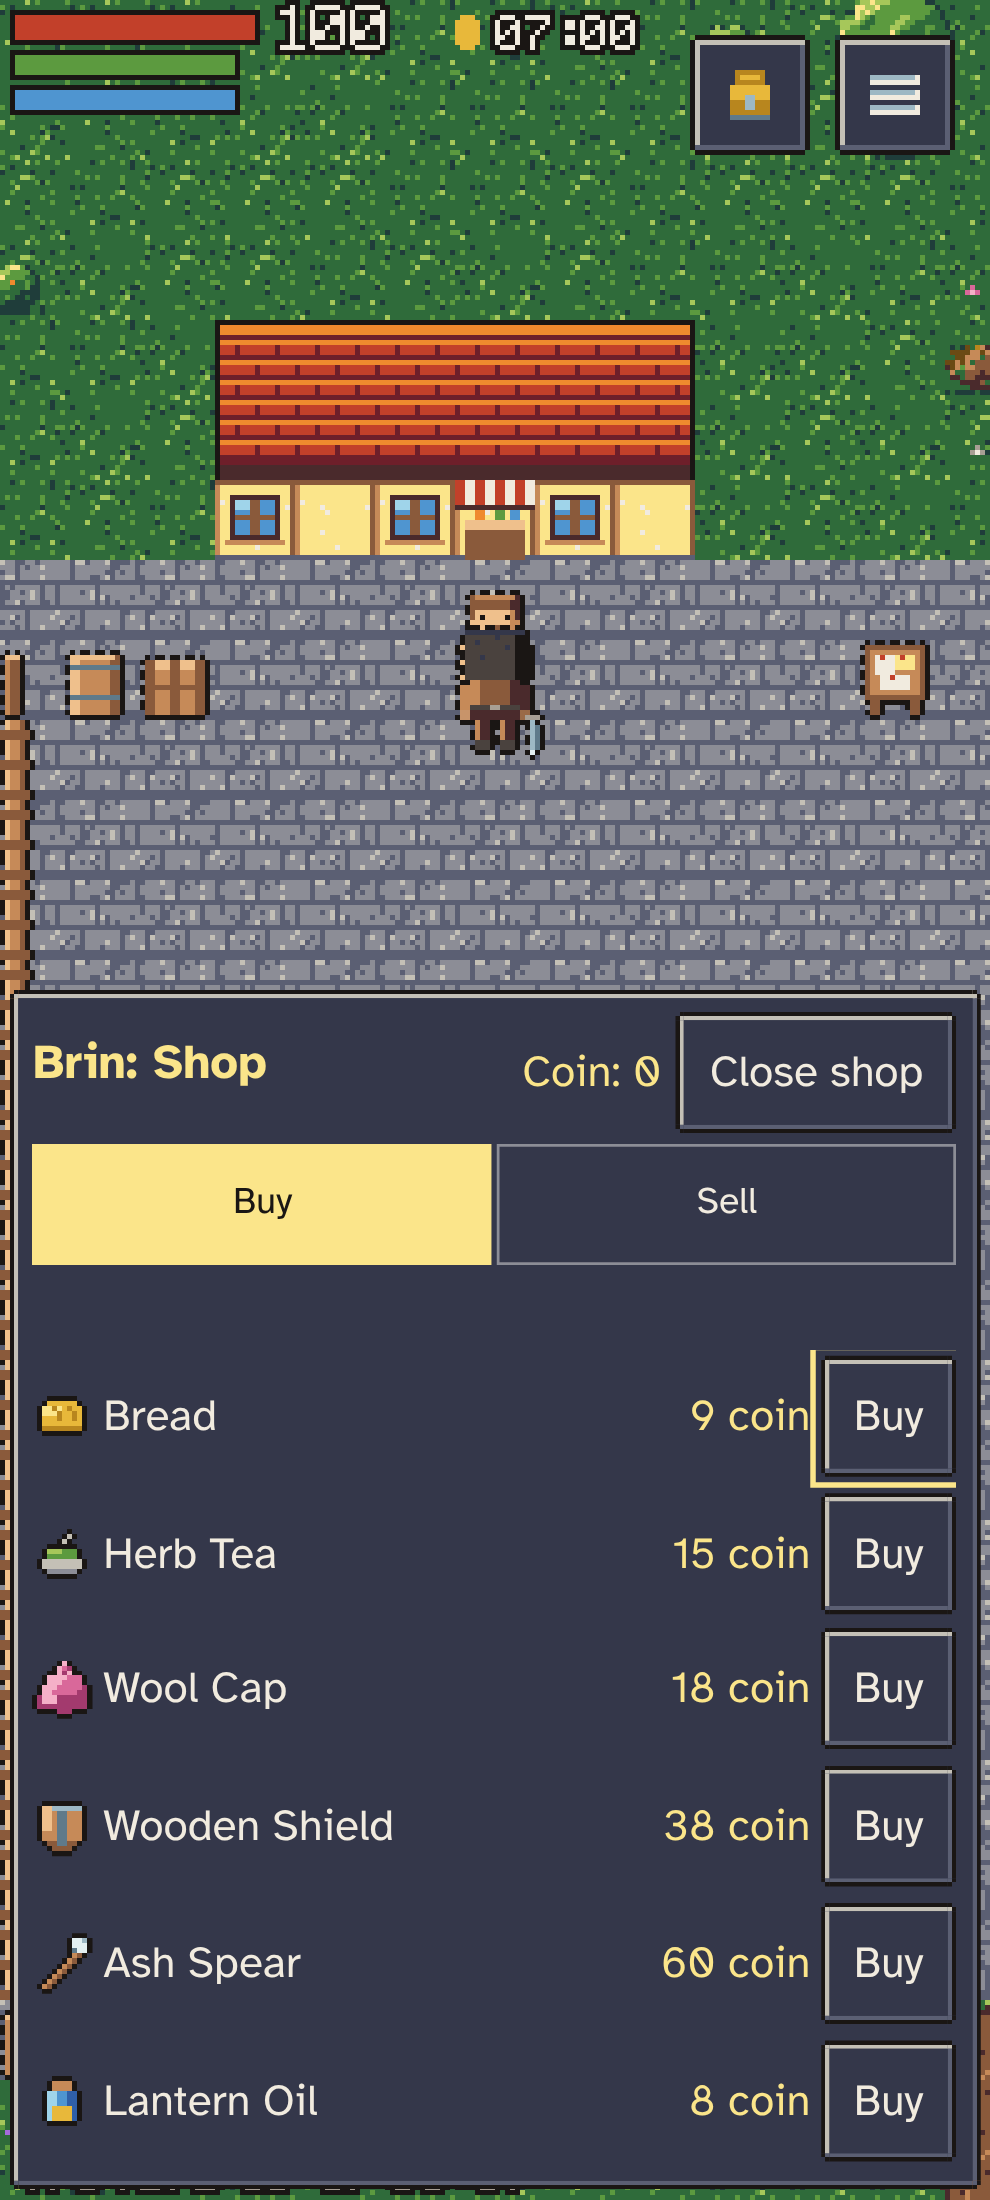
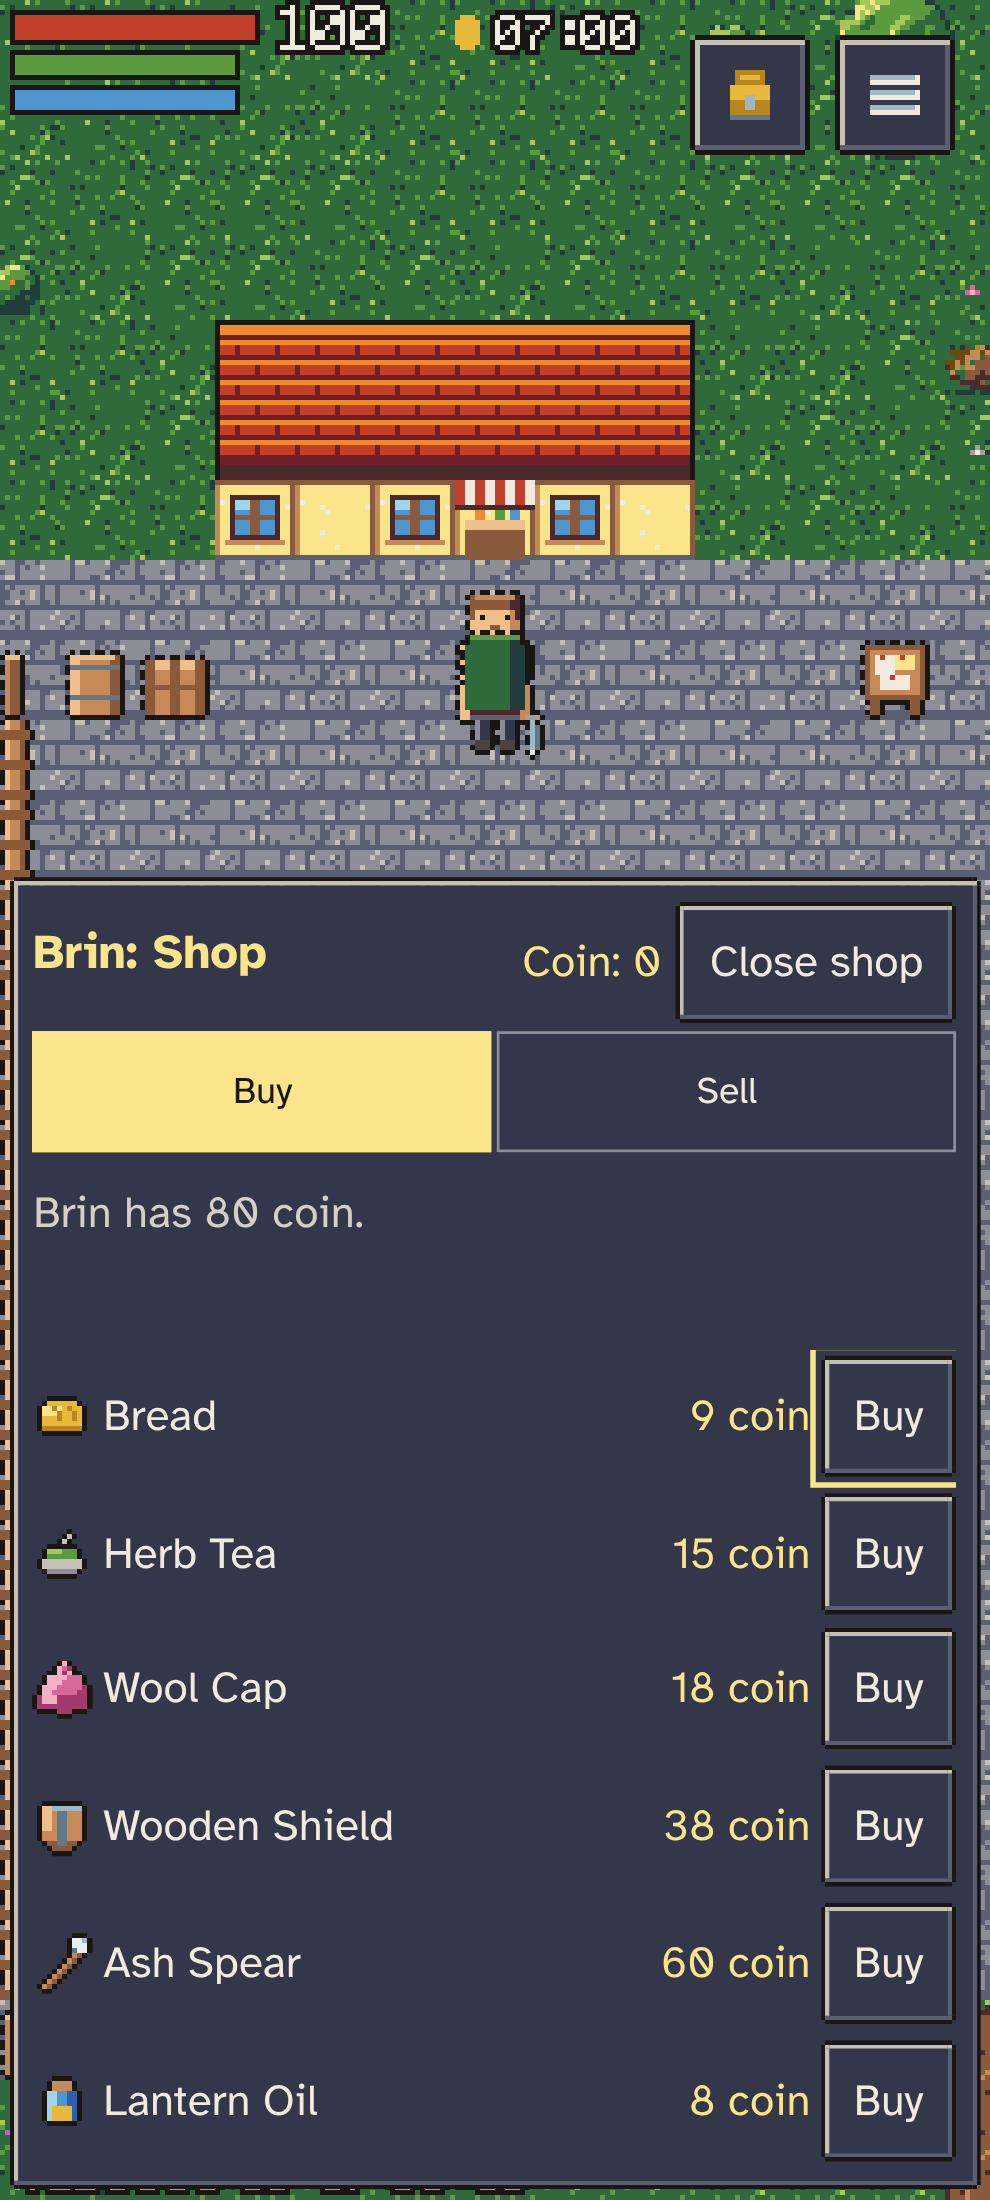
Playtest fixes: cave door, respawn camera, no flick dodge, shopkeeper coin limit
The cave entrance door is now on the south wall of the first room, so walking in and then north no longer loops back outside. The camera follows the avatar's room every frame, so a respawn at a Waystone in another room shows the avatar. A fast swipe no longer dodges (the dodge button and Space remain). Shopkeepers hold a limited purse: sales stop when it runs out, buying refills it, and it recovers slowly toward its starting amount.

Claude-Session: https://claude.ai/code/session_01C2rw6xfGCmDCEVmwDgozvR

diff --git a/src/sim/systems/npcs.ts b/src/sim/systems/npcs.ts
@@ -8,7 +8,7 @@ import { destroy, getComp, query, setComp, spawn, type EntityId } from '../kerne
 import { emit } from '../kernel/events';
 import { px, SUBPX } from '../kernel/fixed';
 import { offerTrial } from '../skills';
-import type { SimState } from '../state';
+import type { Npc, SimState } from '../state';
 import { contextTarget } from './interact';
 
 const TILE = 16;
@@ -17,10 +17,27 @@ const TILE = 16;
 export function spawnNpc(state: SimState, id: string, tx: number, ty: number): EntityId {
   const e = spawn(state.entities);
   setComp(state.entities, e, 'pos', { x: px(tx * TILE + 8), y: px(ty * TILE + 14) });
-  setComp(state.entities, e, 'npc', { id });
+  const shop = Object.values(SHOPS).find((x) => x.npc === id);
+  setComp(state.entities, e, 'npc', { id, purse: shop?.purse.start ?? 0 });
   setComp(state.entities, e, 'body', { w: px(12), h: px(8), solid: true });
   setComp(state.entities, e, 'interactable', { kind: id });
   return e;
+}
+
+/** The npc component of the shopkeeper for a shop, if they are in the world. */
+function keeper(state: SimState, shopId: string): { npc: Npc; max: number } | null {
+  const shop = SHOPS[shopId];
+  if (!shop) return null;
+  for (const id of query(state.entities, 'npc')) {
+    const n = getComp(state.entities, id, 'npc');
+    if (n?.id === shop.npc) return { npc: n, max: shop.purse.max };
+  }
+  return null;
+}
+
+/** Coin the shopkeeper holds, or 0 if they are not here. */
+export function shopPurse(state: SimState, shopId: string): number {
+  return keeper(state, shopId)?.npc.purse ?? 0;
 }
 
 /** Price to buy one of an item. */
@@ -121,6 +138,8 @@ export function buy(
   if (!canHold(inv, c.item, c.qty))
     return void emit(state.events, { type: 'shopDenied', who, reason: 'bag' });
   a.coin -= cost;
+  const k = keeper(state, c.shop);
+  if (k) k.npc.purse = Math.min(k.max, k.npc.purse + cost);
   addItem(inv, c.item, c.qty);
   emit(state.events, { type: 'bought', who, item: c.item, qty: c.qty, coin: cost });
 }
@@ -142,14 +161,29 @@ export function sell(
   const each = sellPrice(stack.item);
   if (each <= 0 || stack.item === 'item.coin')
     return void emit(state.events, { type: 'shopDenied', who, reason: 'worthless' });
+  const k = keeper(state, c.shop);
+  if (!k || k.npc.purse < each * qty)
+    return void emit(state.events, { type: 'shopDenied', who, reason: 'purse' });
   const item = stack.item;
   if (!removeItem(inv, item, qty)) return;
+  k.npc.purse -= each * qty;
   a.coin += each * qty;
   emit(state.events, { type: 'sold', who, item, qty, coin: each * qty });
 }
 
+/** Shopkeepers who hold less than they started with earn a little back over time. */
+function restock(state: SimState): void {
+  if (state.tick === 0 || state.tick % B.purseRegenEvery !== 0) return;
+  for (const shop of Object.values(SHOPS)) {
+    const k = keeper(state, shop.id);
+    if (k && k.npc.purse < shop.purse.start)
+      k.npc.purse = Math.min(shop.purse.start, k.npc.purse + B.purseRegen);
+  }
+}
+
 /** Counts kills toward active requests and marks them ready. Runs after combat. */
 export function requestsSystem(state: SimState): void {
+  restock(state);
   for (const who of query(state.entities, 'avatar', 'journal')) {
     const j = getComp(state.entities, who, 'journal');
     if (!j) continue;

diff --git a/tests/sim/npcs.test.ts b/tests/sim/npcs.test.ts
@@ -7,7 +7,7 @@ import type { Command } from '../../src/sim/kernel/commands';
 import type { SimEvent } from '../../src/sim/kernel/events';
 import { createDemoState, type SimState } from '../../src/sim/state';
 import { stepWorld } from '../../src/sim/step';
-import { buyPrice, sellPrice, spawnNpc } from '../../src/sim/systems/npcs';
+import { buyPrice, sellPrice, shopPurse, spawnNpc } from '../../src/sim/systems/npcs';
 
 interface Rig {
   s: SimState;
@@ -179,6 +179,48 @@ describe('the shop', () => {
     r.tick(buy('item.dish_bread'));
     expect(denials(r)).toEqual(['stock', 'worthless', 'bag', 'range']);
     expect(a.coin).toBe(1000);
+  });
+
+  it('the shopkeeper only has so much coin: sales stop when it runs out, and buying refills it', () => {
+    const r = rig();
+    const inv = r.s.entities.comps.inventory[r.me]!;
+    const a = r.s.entities.comps.avatar[r.me]!;
+    const start = shopPurse(r.s, 'shop.brin');
+    expect(start).toBe(80);
+    // Iron swords sell for 30 each: two fit in an 80 coin purse, the third does not.
+    for (let i = 0; i < 3; i++) inv.slots[i] = { item: 'item.sword_iron', qty: 1 };
+    r.tick(sell(0));
+    r.tick(sell(1));
+    expect(a.coin).toBe(60);
+    expect(shopPurse(r.s, 'shop.brin')).toBe(20);
+    r.tick(sell(2));
+    expect(denials(r)).toEqual(['purse']);
+    expect(a.coin).toBe(60);
+    expect(inv.slots[2]).not.toBeNull();
+    // Buying puts the coin back in the till, up to its limit.
+    r.tick(buy('item.dish_bread', 3));
+    expect(shopPurse(r.s, 'shop.brin')).toBe(20 + buyPrice('item.dish_bread') * 3);
+    r.tick(sell(2));
+    expect(r.count('sold')).toBe(3);
+  });
+
+  it('a shopkeeper who is short earns back a little over time, never past the start', () => {
+    const r = rig();
+    const inv = r.s.entities.comps.inventory[r.me]!;
+    inv.slots[0] = { item: 'item.sword_iron', qty: 1 };
+    inv.slots[1] = { item: 'item.sword_iron', qty: 1 };
+    r.tick(sell(0));
+    r.tick(sell(1));
+    const low = shopPurse(r.s, 'shop.brin');
+    expect(low).toBe(20);
+    r.s.tick = 30 * 120 - 1;
+    r.tick();
+    expect(shopPurse(r.s, 'shop.brin')).toBe(low + 5);
+    for (let i = 0; i < 30; i++) {
+      r.s.tick = (i + 2) * 30 * 120 - 1;
+      r.tick();
+    }
+    expect(shopPurse(r.s, 'shop.brin')).toBe(80);
   });
 
   it('buying costs more than selling pays, so there is no free coin', () => {

diff --git a/tests/unit/input.test.ts b/tests/unit/input.test.ts
@@ -46,37 +46,34 @@ describe('touch stick', () => {
 });
 
 describe('flick, tap, hold', () => {
-  it('a fast short swipe is a flick with the right direction', () => {
-    const t = mk();
-    t.down(1, 100, 600, 0);
-    t.move(1, 100, 560);
-    t.up(1, 100, 560, 100);
-    const s = t.sample(110);
-    expect(s.dodge).toEqual({ dir: Dir.N });
-    expect(s.targetTap).toBeNull();
-  });
-
-  it('a slow drag of the same distance is not a flick', () => {
-    const t = mk();
-    t.down(1, 100, 600, 0);
-    t.move(1, 100, 560);
-    t.up(1, 100, 560, T.flickMaxMs + 200);
-    expect(t.sample(1000).dodge).toBeNull();
-  });
-
-  it('a flick is detected in all of four sample directions', () => {
-    const cases: [number, number, number][] = [
-      [40, 0, Dir.E],
-      [0, 40, Dir.S],
-      [-40, 0, Dir.W],
-      [30, -30, Dir.NE],
-    ];
-    for (const [dx, dy, dir] of cases) {
+  it('a fast short swipe is not a dodge, so reaching for things never dodges by accident', () => {
+    for (const [dx, dy] of [
+      [0, -40],
+      [40, 0],
+      [0, 40],
+      [-40, 0],
+      [30, -30],
+    ] as const) {
       const t = mk();
       t.down(1, 180, 600, 0);
       t.up(1, 180 + dx, 600 + dy, 90);
-      expect(t.sample(100).dodge).toEqual({ dir });
+      const s = t.sample(100);
+      expect(s.dodge).toBeNull();
+      expect(s.targetTap).toBeNull();
     }
+  });
+
+  it('with the flick dodge switched on, a fast short swipe dodges in its direction', () => {
+    const t = new TouchController(layout(), { ...T, flickDodge: true });
+    t.down(1, 100, 600, 0);
+    t.move(1, 100, 560);
+    t.up(1, 100, 560, 100);
+    expect(t.sample(110).dodge).toEqual({ dir: Dir.N });
+    const slow = new TouchController(layout(), { ...T, flickDodge: true });
+    slow.down(1, 100, 600, 0);
+    slow.move(1, 100, 560);
+    slow.up(1, 100, 560, T.flickMaxMs + 200);
+    expect(slow.sample(1000).dodge).toBeNull();
   });
 
   it('a short still touch on open ground is a target tap', () => {

diff --git a/src/ui/dom/talk.ts b/src/ui/dom/talk.ts
@@ -9,7 +9,7 @@ import { holds, startNode } from '../../sim/journal';
 import type { Command } from '../../sim/kernel/commands';
 import type { SimEvent } from '../../sim/kernel/events';
 import type { SimState } from '../../sim/state';
-import { buyPrice, sellPrice } from '../../sim/systems/npcs';
+import { buyPrice, sellPrice, shopPurse } from '../../sim/systems/npcs';
 
 export interface TalkDeps {
   read: () => { state: SimState; who: number };
@@ -178,7 +178,9 @@ export class TalkSheet {
       this.shopMsg = fill(S.shop.sold, { item: nameOf(e.item), n: String(e.coin) });
       this.renderShop();
     } else if (this.shopId && e.type === 'shopDenied') {
-      this.shopMsg = S.shop.denied[e.reason];
+      this.shopMsg = fill(S.shop.denied[e.reason], {
+        name: NPCS[SHOPS[this.shopId]?.npc ?? '']?.name ?? '',
+      });
       this.renderShop();
     }
   }
@@ -225,6 +227,14 @@ export class TalkSheet {
       });
       tabs.appendChild(b);
     }
+    const purse = el(
+      'p',
+      'pow-hint',
+      fill(S.shop.purse, {
+        name: NPCS[shop.npc]?.name ?? '',
+        n: String(shopPurse(state, shop.id)),
+      }),
+    );
     const msg = el('p', 'pow-shop-msg', this.shopMsg);
     msg.setAttribute('role', 'status');
 
@@ -272,7 +282,7 @@ export class TalkSheet {
       });
       if (!any) list.appendChild(el('li', 'pow-hint', S.shop.nothingToSell));
     }
-    put(s, head, tabs, msg, list);
+    put(s, head, tabs, purse, msg, list);
     (s.querySelector('.pow-shop-list button') as HTMLElement | null)?.focus();
     this.ready = true;
   }

diff --git a/src/demo/world.ts b/src/demo/world.ts
@@ -1,5 +1,5 @@
 // Temporary demo: the 3 x 3 chunk test map with the sim avatar and three practice creatures.
-// Walk, fight (Flow or Classic, button top right), dodge with a flick or Space, lock by tapping.
+// Walk, fight (Flow or Classic, button top right), dodge with the button or Space, lock by tapping.
 // Keys: WASD move, J attack (Classic), Space dodge, 1 and 2 techniques (hold to aim), T scheme.
 //   ?fly=1   no collision, fast, no creatures (for crossing all nine chunks)
 //   ?auto=1  fly a fixed loop through all nine chunks without input (for the frame-rate check)
@@ -616,6 +616,14 @@ export async function startWorldDemo(canvas: HTMLCanvasElement): Promise<void> {
       const fy = (prev.y + (apos.y - prev.y) * alpha) / 256;
       const pxX = Math.round(fx);
       const pxY = Math.round(fy);
+      // Rooms follow the avatar wherever it is, including a respawn at a Waystone in another room.
+      if (!fly) {
+        const here = roomAt(Math.floor(pxX / TILE_PX), Math.floor((pxY - 1) / TILE_PX));
+        if (here && here.id !== room.id) {
+          enterRoom(here);
+          fadeAt = now;
+        }
+      }
       camera.follow(pxX, pxY - 14, dt);
       const shake = feedback.shake(now);
       renderer.begin(camera.x + shake.x, camera.y + shake.y);

diff --git a/tests/sim/slice.test.ts b/tests/sim/slice.test.ts
@@ -298,6 +298,24 @@ describe('the cave run', () => {
     expect(b.tile().y).toBeGreaterThan(at('fixture.portal_cave_mouth').y);
   });
 
+  it('entering the cave puts you at its south door, and walking north stays inside', () => {
+    const b = world();
+    expect(b.walkTo(at('fixture.portal_cave_mouth'))).toBe(true);
+    expect(b.room()).toBe('room.a');
+    const entry = at('fixture.portal_a_entry');
+    // The door you came through is behind you, to the south.
+    expect(entry.y).toBeGreaterThan(b.tile().y);
+    for (let i = 0; i < 200; i++) b.tick({ type: 'move', dir: N });
+    expect(b.room()).toBe('room.a');
+    expect(b.count('roomChanged')).toBe(1);
+    // Walking back south reaches that door and leads outside, once.
+    expect(b.walkTo(entry)).toBe(true);
+    expect(b.room()).toBe('room.outdoors');
+    for (let i = 0; i < 60; i++) b.tick({ type: 'move', dir: S });
+    expect(b.room()).toBe('room.outdoors');
+    expect(b.count('roomChanged')).toBe(2);
+  });
+
   it('the side room holds a chest and a tablet', () => {
     const b = world();
     expect(b.walkTo(at('fixture.portal_cave_mouth'))).toBe(true);

diff --git a/src/content/world/fixtures.ts b/src/content/world/fixtures.ts
@@ -44,7 +44,7 @@ const LIST: readonly FixtureDef[] = [
     kind: 'fixture.portal_a_entry',
     type: 'portal',
     to: 'fixture.portal_cave_mouth',
-    arrive: [0, 22],
+    arrive: [0, -22],
   },
   { kind: 'fixture.portal_a_east', type: 'portal', to: 'fixture.portal_b_west', arrive: [-22, 0] },
   { kind: 'fixture.portal_b_west', type: 'portal', to: 'fixture.portal_a_east', arrive: [22, 0] },
@@ -70,7 +70,7 @@ const LIST: readonly FixtureDef[] = [
     to: 'fixture.arrival_a_shortcut',
     arrive: [0, 22],
   },
-  { kind: 'fixture.arrival_a_shortcut', type: 'arrival', arrive: [0, -22] },
+  { kind: 'fixture.arrival_a_shortcut', type: 'arrival', arrive: [0, 22] },
 
   {
     kind: 'fixture.door_boss',

diff --git a/src/content/world/slice-map.ts b/src/content/world/slice-map.ts
@@ -294,10 +294,10 @@ function cave(g: Grid, objects: Obj[]): void {
   const fixture = (x: number, y: number, kind: string): void => object(g, x, y, kind, objects);
 
   carve('room.a', (x0, y0) => {
-    portal(x0 + 9, y0, 'fixture.portal_a_entry');
+    portal(x0 + 9, y0 + 13, 'fixture.portal_a_entry');
     portal(x0 + 17, y0 + 7, 'fixture.portal_a_east');
-    g.set(x0 + 9, y0 + 13, ARCH);
-    fixture(x0 + 9, y0 + 13, 'fixture.arrival_a_shortcut');
+    g.set(x0 + 9, y0, ARCH);
+    fixture(x0 + 9, y0, 'fixture.arrival_a_shortcut');
     object(g, x0 + 5, y0 + 6, 'spawner.mossling', objects);
   });
   carve('room.b', (x0, y0) => {

diff --git a/src/sim/kernel/events.ts b/src/sim/kernel/events.ts
@@ -82,7 +82,11 @@ export type SimEvent =
   | { type: 'shopOpened'; who: number; shop: string }
   | { type: 'bought'; who: number; item: string; qty: number; coin: number }
   | { type: 'sold'; who: number; item: string; qty: number; coin: number }
-  | { type: 'shopDenied'; who: number; reason: 'coin' | 'bag' | 'stock' | 'worthless' | 'range' }
+  | {
+      type: 'shopDenied';
+      who: number;
+      reason: 'coin' | 'bag' | 'stock' | 'worthless' | 'range' | 'purse';
+    }
   | { type: 'roomChanged'; who: number; from: string; to: string };
 
 /** Transient queue. Cleared at the start of every tick. Not saved or hashed. */

diff --git a/src/content/balance/shop.ts b/src/content/balance/shop.ts
@@ -4,6 +4,10 @@ export const SHOP_BALANCE = {
   buyPct: 150,
   /** Selling pays this percent of an item's value, rounded down. */
   sellPct: 50,
+  /** A shopkeeper who holds less than their starting coin earns back this much every interval. */
+  purseRegen: 5,
+  /** Ticks between those top ups (30 per second): one every two minutes. */
+  purseRegenEvery: 30 * 120,
   /** The avatar must be this close to the NPC (px) for dialogue and shopping to count. */
   talkRangePx: 56,
 } as const;

diff --git a/src/content/strings/ui.ts b/src/content/strings/ui.ts
@@ -93,6 +93,7 @@ export const UI_STRINGS = {
   shop: {
     title: 'Shop',
     coin: 'Coin: {n}',
+    purse: '{name} has {n} coin.',
     buy: 'Buy',
     sell: 'Sell',
     buyOne: 'Buy',
@@ -108,6 +109,7 @@ export const UI_STRINGS = {
       stock: 'That is not for sale here.',
       worthless: 'The shop will not buy that.',
       range: 'You are too far from the counter.',
+      purse: '{name} cannot afford that right now.',
     },
   },
   world: {

diff --git a/src/content/balance/input.ts b/src/content/balance/input.ts
@@ -8,6 +8,8 @@ export const INPUT_TUNABLES = {
   tapMaxDistPx: 10,
   tapMaxMs: 250,
   /** A fast short swipe: at least this far, at most this long. */
+  /** A fast short swipe dodges. Off: swiping to move or to reach things kept triggering dodges. */
+  flickDodge: false as boolean,
   flickMinDistPx: 24,
   flickMaxDistPx: 110,
   flickMaxMs: 180,
